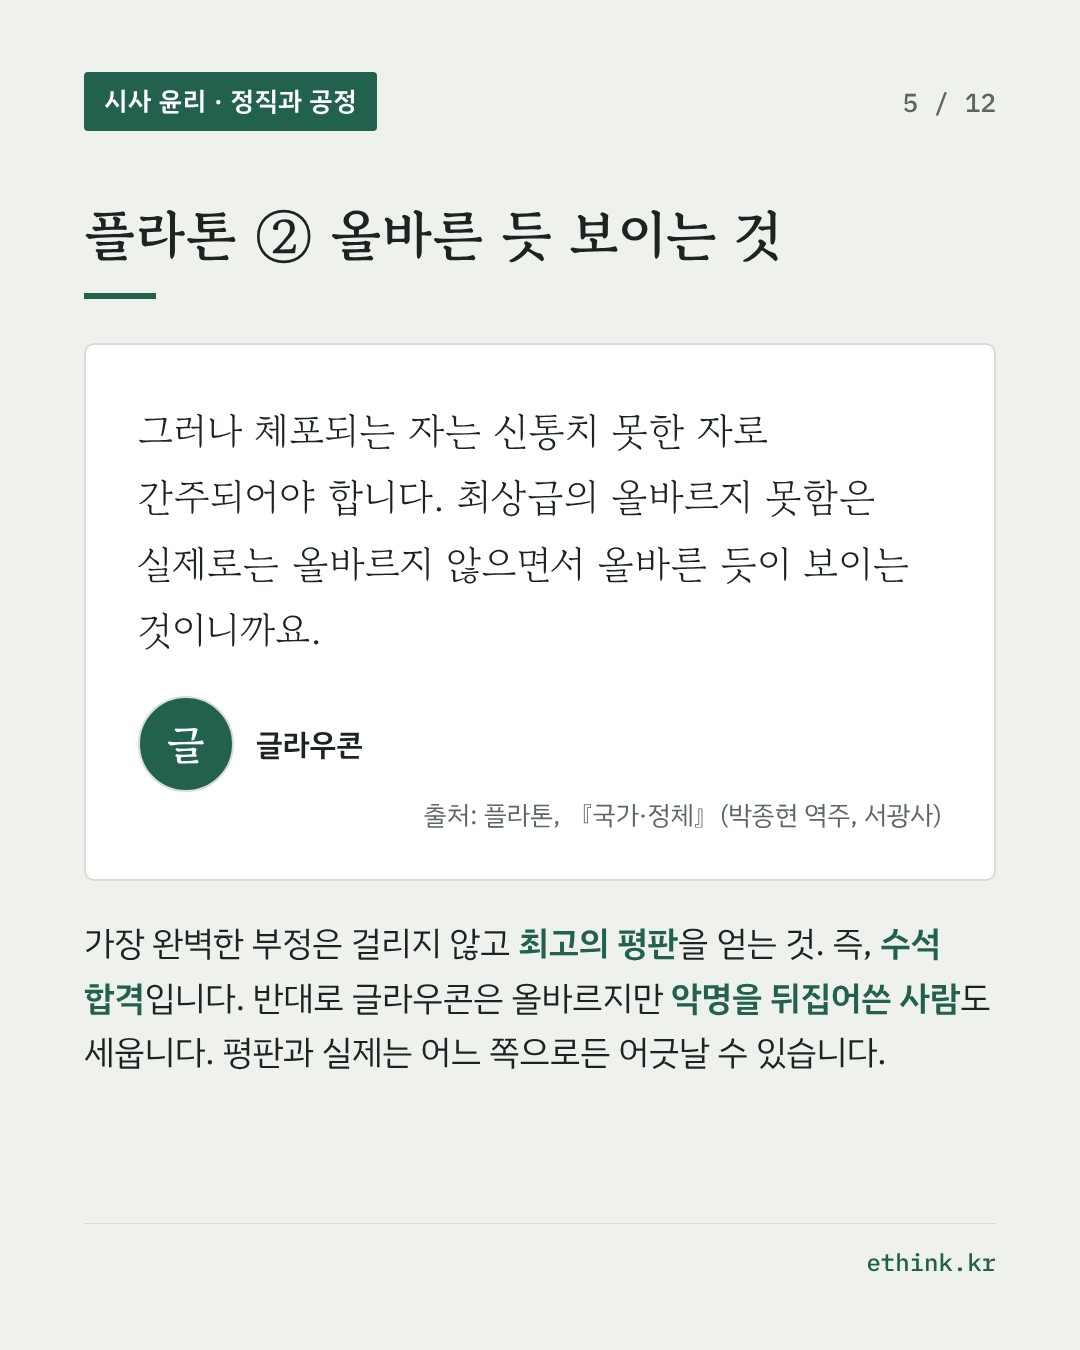
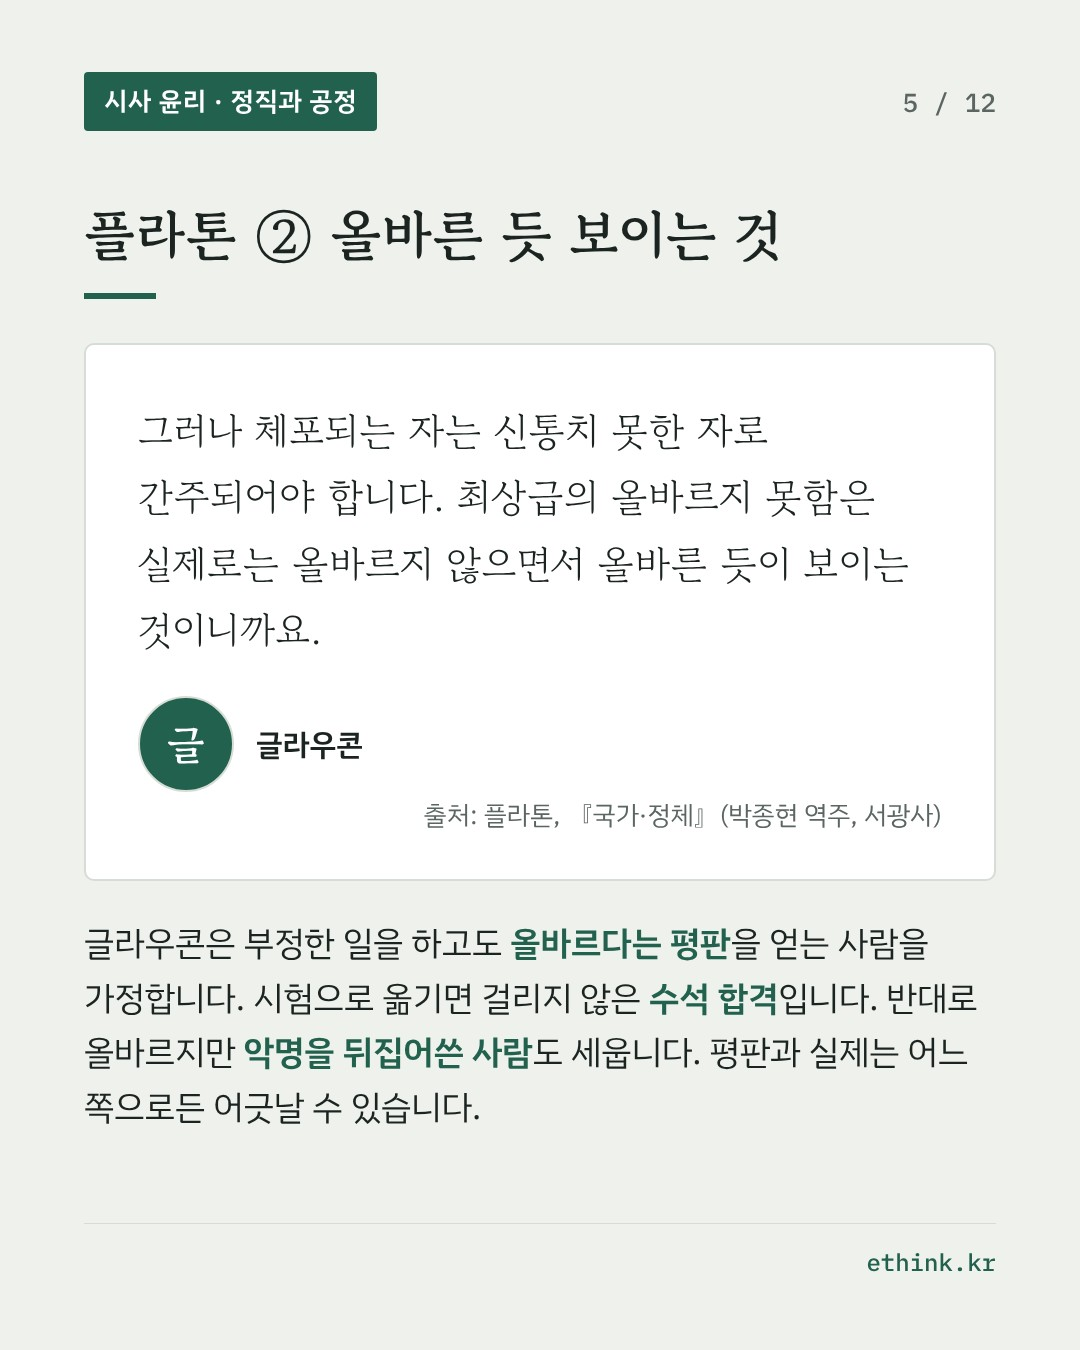
draft 11.21: GPT 검토 반영(98명 집계 기준, 세무사 영상일·검토 표현, 리트 사례 본문에서 제외, 목자 표기, 위기지학 풀이, 수업 표·가상 사례)
Claude-Session: https://claude.ai/code/session_01KzEbiP1novw54Lmu5VVEdP

Changed region(s): [[0.0611, 0.6844, 0.9167, 0.84]]

diff --git a/_items/2026-11-21/1.md b/_items/2026-11-21/1.md
@@ -2,13 +2,17 @@
 date: 2026-11-21 09:00:00 +0900
 num: 1
 section: 정직과 공정
-kicker: 국내 · 11월 19일 수능 부정행위 98명, 세무사 수석 합격자 자백, 리트 만점자 의혹
+kicker: 국내 · 11월 19일 수능 전자기기 부정행위 98명, 세무사 시험 수석 합격자의 자백
 title: 투명 인간이 되어 시험을 친다면, 기게스의 반지로 읽는 시험 부정행위
 question: 아무에게도 들키지 않을 수 있다면, 그래도 시험에서 부정행위를 하지 말아야 할 이유는 무엇인가?
-caution: 세 사례는 확인된 정도가 다릅니다. 수능 부정행위자 98명은 교육부가 발표한 수치이고, 최종 징계는 심의위원회를 거쳐 정해집니다. 세무사 수석 합격자는 본인이 부정행위를 밝혔고 경찰 수사 중이며, 기소나 판결은 나오지 않았습니다. 리트 만점자 사건은 의혹이 제기된 단계에서 당사자가 숨졌고, 부정행위 여부는 확인되지 않았습니다. 이 글은 그를 부정행위자로 다루지 않습니다. 수업에서 실명을 쓰거나 의혹을 추측하지 않고, 죽음의 경위도 다루지 않습니다. 수능을 막 치른 학생도 있으니, 부정행위를 보거나 하고 싶었던 경험을 말하게 하지 않습니다. 플라톤과 공자의 생각을 이번 사례에 대어 보는 것은 글쓴이의 해석입니다.
+caution: 수능 98명은 교육부가 4교시 종료 기준으로 집계한 스마트기기 등 전자기기 관련 부정행위자이고, 시간 위반 같은 일반 유형은 빠져 있습니다. 최종 통계와 징계는 심의를 거쳐 나옵니다. 세무사 수석 합격자는 본인이 부정행위를 밝혔고 경찰 수사 중이며, 기소나 판결은 나오지 않았습니다. 같은 주에 제기된 리트 만점자 의혹은 확인되지 않은 채 당사자가 숨지는 일로 이어졌습니다. 이 글은 그 사건을 사례로 다루지 않으며, 수업에서도 다루지 않기를 권합니다. 수능을 막 치른 학생도 있으니, 부정행위를 보거나 하고 싶었던 경험을 말하게 하지 않습니다. 플라톤과 공자의 생각을 이번 사례에 대어 보는 것은 글쓴이의 해석입니다.
 subjects: [『인문학과 윤리』 · 의미 있는 타자로서의 친구, 『윤리와 사상』 · 서양 윤리 사상, 『윤리와 사상』 · 동양 윤리 사상]
 lenses: [플라톤 · 기게스의 반지와 '보이는 것'과 '실제', 공자 · 자기를 위한 공부(위기지학)]
 sources:
+  - name: 대한민국 정책브리핑, 교육부 수능 2차 브리핑 (11.19)
+    url: https://www.korea.kr/briefing/policyBriefingView.do?newsId=156790001
+  - name: 뉴시스 (11.16)
+    url: https://mobile.newsis.com/view/NISX20261116_0003868832
   - name: 경향신문 (11.19)
     url: https://www.khan.co.kr/article/202611191915001
   - name: 주간경향 (11.19)
@@ -19,27 +23,23 @@ sources:
     url: https://www.hankookilbo.com/news/article/A2026111809410005039
   - name: 경향신문 (11.18)
     url: https://www.khan.co.kr/article/202611180600061
-  - name: 서울경제 (11.20)
-    url: https://www.sedaily.com/article/20116703
 og_image: /assets/og/2026-11-21-1.jpg
 ---
 ##### 무슨 일이 있었나
 
-11월 19일 치른 2027학년도 수능에서 부정행위자 98명이 나왔습니다(교육부, 4교시 종료 기준). 49명은 위급재난문자가 울리면서 걸렸습니다. 몸이나 복도에 둔 가방 속 전자기기에서 알람이 울린 것입니다. 시험 도중 스마트기기를 쓴 부정행위도 5건 있었습니다. 스마트안경 1건, 소형 카메라와 무선 이어폰 1건, 스마트폰으로 문제지를 찍은 1건, 화장실에서 스마트폰을 쓴 2건입니다. 교육부는 98명을 모두 부정행위자로 처리했고, 스마트기기를 쓴 수험생에게는 "보다 엄중한 책임을 묻겠다"고 밝혔습니다. 징계 수위는 심의위원회를 거쳐 성적 발표일(12월 11일) 전에 정합니다.
+교육부는 11월 19일 치른 2027학년도 수능에서 4교시 종료 기준으로 스마트기기 등 전자기기 관련 부정행위자 98명을 집계했습니다(시간 위반 같은 일반 유형은 빠진 수치이고, 최종 통계는 추후 발표합니다). 49명은 위급재난문자 알림을 계기로 적발됐습니다. 몸이나 복도에 둔 가방 속 전자기기에서 알람이 울린 것입니다. 와이파이 신호 탐지 등으로 전자기기가 적발된 사람은 44명입니다. 시험 도중 스마트기기를 활용한 부정행위도 5건 확인됐습니다. 스마트안경을 쓴 1건, 소형 카메라와 무선 이어폰을 소지한 1건, 스마트폰으로 문제지를 찍은 1건, 화장실에서 스마트폰을 쓴 2건입니다. 교육부는 98명을 모두 부정행위자로 처리했고, 스마트기기를 쓴 수험생에게는 "보다 엄중한 책임을 묻겠다"고 밝혔습니다. 징계 수위는 심의위원회를 거쳐 성적 발표일(12월 11일) 전에 정합니다.
 
-시험장 밖에서도 일이 이어졌습니다. 올해 세무사 시험 수석 합격자는 11월 14일 공개된 영상에서 초소형 카메라로 시험지를 찍어 AI에 보내고, 스마트폰으로 답을 확인했다고 털어놓았습니다. 공인회계사 1차 시험에서도 같은 방식을 썼다고 했습니다. 그는 17일 경찰 조사를 받았습니다. 한국산업인력공단은 자백 전에 전문가를 위촉해 답안을 검토했지만 "AI 부정행위를 의심할 만한 구체적인 특이사항"을 찾지 못했습니다. 정부는 올해 치른 국가자격시험 528개를 사후 검증하겠다고 했습니다(이 사건은 [지난 글](/weekly/2026-11-16/1/)에서 '자격'의 문제로 다루었습니다).
-
-같은 주, 올해 7월 법학적성시험(리트)의 만점자로 알려진 응시자에게 부정행위 의혹이 제기되었습니다. 18일 고발이 있었고, 다음 날 그는 숨진 채 발견되었습니다. 보도된 메모에 부정행위를 인정하는 내용은 없었고, 의혹은 확인되지 않았습니다. 경찰은 사실 확인을 위해 수사를 이어 가겠다고 밝혔습니다.
+시험장 밖에서도 일이 이어졌습니다. 올해 세무사 시험 수석 합격자는 11월 15일 공개된 영상에서 "세무사 1·2차 시험에서 전자기기와 생성형 AI를 이용해 부정행위를 했다"고 밝혔습니다. 초소형 카메라로 시험지를 찍어 AI에 보내고, 스마트폰으로 답을 확인하는 방식이었습니다. 그는 "제가 수석으로 합격한 것은 정당한 노력으로 얻은 결과가 아니다"라고 했습니다. 공인회계사 1차 시험에서도 같은 방식을 썼다고 했습니다. 그는 17일 경찰 조사를 받았습니다. 자수 전 한국산업인력공단이 전문가를 위촉해 2차 시험 답안을 검토했지만, "AI 부정행위를 의심할 만한 구체적인 특이사항"을 찾지 못했습니다. 정부는 국가자격시험 전체를 대상으로 AI 부정행위 의심 사례를 조사하기로 했습니다(이 사건은 [지난 글](/weekly/2026-11-16/1/)에서 '자격'의 문제로 다루었습니다).
 
 ##### 왜 윤리 문제인가
 
-세 사례는 같지 않습니다. 수능에서는 규칙을 어긴 사람이 그 자리에서 걸렸습니다. 세무사 시험에서는 걸리지 않았고, 수석이라는 평판까지 얻었다가 본인이 밝혔습니다. 리트 사례는 확인되지 않은 의혹입니다.
+두 사례는 같지 않습니다. 수능에서는 규칙을 어긴 사람이 그 자리에서 걸렸습니다. 세무사 시험에서는 걸리지 않았고, 수석이라는 평판까지 얻었다가 본인이 밝혔습니다.
 
-그런데 셋은 한 가지를 똑같이 묻습니다. 감독이 다 보지 못한다면? 스마트안경, 초소형 카메라, AI가 나오면서 감독관의 눈은 점점 더 많은 것을 놓칩니다. 전문가가 답안을 다시 읽어도 찾지 못했습니다. 그렇다면 질문은 이렇게 됩니다. 들키지 않는다면, 부정행위를 하지 않을 이유가 있는가? 2,400년 전 플라톤이 『국가』에서 던진 질문입니다. 감독 없이도 지킬 규칙은 [칸트와 신독으로](/weekly/2026-10-27/1/), 아무도 모르게 볼 수 있는 정보는 [기게스의 반지로](/weekly/2026-10-24/1/) 읽은 적이 있습니다. 이번에는 시험이 남기는 '평판'과 '실력' 사이를 플라톤과 공자로 읽어 봅니다.
+그런데 둘은 한 가지를 똑같이 묻습니다. 감독이 다 보지 못한다면? 스마트안경, 초소형 카메라, AI가 나오면서 감독관의 눈은 점점 더 많은 것을 놓칩니다. 전문가가 답안을 다시 읽어도 특이사항을 찾지 못했습니다. 그렇다면 질문은 이렇게 됩니다. 들키지 않는다면, 부정행위를 하지 않을 이유가 있는가? 2,400년 전 플라톤이 『국가』에서 던진 질문입니다. 감독 없이도 지킬 규칙은 [칸트와 신독으로](/weekly/2026-10-27/1/), 아무도 모르게 볼 수 있는 정보는 [기게스의 반지로](/weekly/2026-10-24/1/) 읽은 적이 있습니다. 이번에는 시험이 남기는 '평판'과 '실력' 사이를 플라톤과 공자로 읽어 봅니다.
 
 ##### 플라톤으로 읽기: 올바른 듯 보이는 것과 올바른 것
 
-플라톤(기원전 427~347)은 고대 그리스의 철학자입니다. 『국가』에서 글라우콘은 소크라테스에게 도전합니다. 사람들이 올바르게 사는 것은 처벌이 두렵고 평판이 필요해서일 뿐이라는 것입니다. 그 증거로 리디아의 목자 기게스 이야기를 꺼냅니다. 땅이 갈라진 틈에서 금반지를 주운 목자가, 목자들의 모임에 그 반지를 끼고 나갔습니다.
+플라톤(기원전 427~347)은 고대 그리스의 철학자입니다. 『국가』에서 글라우콘은 소크라테스에게 도전합니다. 사람들이 올바르게 사는 것은 처벌이 두렵고 평판이 필요해서일 뿐이라는 것입니다. 그 증거로 리디아의 한 목자 이야기를 꺼냅니다(흔히 '기게스의 반지'로 부르는데, 박종현 역주본은 그를 기게스의 조상으로 옮깁니다). 땅이 갈라진 틈에서 금반지를 주운 목자가, 목자들의 모임에 그 반지를 끼고 나갔습니다.
 
 <figure class="src">
 <blockquote>
@@ -59,9 +59,9 @@ og_image: /assets/og/2026-11-21-1.jpg
 <figcaption><span class="who">글라우콘</span><span class="from">출처: 플라톤, 『국가·정체』(박종현 역주, 서광사)</span></figcaption>
 </figure>
 
-이 반론을 시험에 대어 봅니다. 재난문자에 걸린 수험생은 글라우콘의 말로 '신통치 못한 자'입니다. 가장 완벽한 부정은 걸리지 않고 최고의 평판을 얻는 것입니다. 즉, 수석 합격입니다. 세무사 시험 사례는 글라우콘이 그린 그림에 거의 닿았습니다. 전문가 검토도 통과했으니까요.
+글라우콘은 부정한 일을 하고도 올바르다는 평판을 얻는 사람을 가정합니다. 이 사고 실험을 시험에 옮기면, 가장 완벽한 부정은 걸리지 않고 최고의 평판을 얻는 것입니다. 즉, 수석 합격입니다. 세무사 시험 사례에서는 자수 전 공단의 답안 검토에서도 특이사항이 나오지 않았습니다.
 
-그런데 글라우콘은 반대편 사람도 세웁니다. 실제로는 올바르지만 평판을 모두 빼앗긴 사람입니다. 그는 "올바르지 못한 짓이라곤 전혀 저지르지 않았지만, 올바르지 못함의 최대 악명"을 얻습니다. 플라톤은 이 사고 실험으로 보이는 것(평판)과 실제를 떼어 놓고 묻습니다. 평판을 다 빼고도 올바름은 그 자체로 좋은가? 이 대목은 리트 사례를 다룰 때도 기억해 둘 만합니다. 평판과 실제는 어느 쪽으로든 어긋날 수 있습니다. 확인되지 않은 의혹만으로 누군가를 판정하지 않는 것도 올바름입니다.
+그런데 글라우콘은 반대편 사람도 세웁니다. 실제로는 올바르지만 평판을 모두 빼앗긴 사람입니다. 그는 "올바르지 못한 짓이라곤 전혀 저지르지 않았지만, 올바르지 못함의 최대 악명"을 얻습니다. 플라톤은 이 사고 실험으로 보이는 것(평판)과 실제를 떼어 놓고 묻습니다. 평판을 다 빼고도 올바름은 그 자체로 좋은가? 이 사고 실험은 반대 방향도 보여 줍니다. 평판과 실제는 어느 쪽으로든 어긋날 수 있습니다. 그렇다면 의혹이 제기됐다는 사실만으로 그 사람의 정직함이나 실력을 판단할 수 있을까? 확인되지 않은 의혹으로 누군가를 판정하지 않는 것도 올바름입니다.
 
 소크라테스의 대답은 『국가』 끝까지 이어집니다. 9권에서 그는 들키지 않는 것이 정말 이득인지 되묻습니다.
 
@@ -72,7 +72,7 @@ og_image: /assets/og/2026-11-21-1.jpg
 <figcaption><span class="who">소크라테스</span><span class="from">출처: 플라톤, 『국가·정체』(박종현 역주, 서광사)</span></figcaption>
 </figure>
 
-소크라테스에게 부정의 대가는 처벌이 아닙니다. 혼이 망가지는 것입니다. 들키지 않으면 그 망가짐이 계속됩니다. 반대로 걸려서 벌을 받는 것은 혼을 바로잡을 기회가 됩니다. 이 생각을 이번 사례에 대어 보면, 시험장에서 걸린 98명에게 적발은 손해이기만 한 것이 아닙니다. 수석 합격자가 스스로 털어놓은 일도 같은 눈으로 볼 수 있습니다(자백의 동기는 확인되지 않았습니다).
+소크라테스에게 부정의 대가는 처벌이 아닙니다. 혼이 망가지는 것입니다. 들키지 않으면 그 망가짐이 계속되고, 벌을 받는 것은 혼을 바로잡을 기회가 됩니다. 즉, 글라우콘이 부정한 일을 하고도 올바르다는 평판을 얻는 사람을 가정한다면, 소크라테스는 그렇게 얻은 이익이 그 사람을 어떤 사람으로 만드는지 되묻습니다.
 
 ##### 공자로 읽기: 남에게 보이기 위한 공부
 
@@ -85,9 +85,9 @@ og_image: /assets/og/2026-11-21-1.jpg
 <figcaption><span class="who">공자</span><span class="from">출처: 『논어』, 「헌문」 · 이기동, 『논어강설』(성균관대학교출판부)</span></figcaption>
 </figure>
 
-자기를 위한 공부(위기지학)와 남을 위한 공부(위인지학)입니다. 여기서 '남을 위한'은 남을 돕는다는 뜻이 아닙니다. 남에게 보이기 위해서, 남을 이기기 위해서입니다. 이기동은 이 구절을 풀며 벼슬을 하거나 돈을 벌기 위한 학문은 남을 이기기 위한 것이니 "남 때문에 하는 것"이라고 적습니다.
+자기를 위한 공부(위기지학)와 남을 위한 공부(위인지학)입니다. 자기를 위한 공부는 배운 것을 자기 것으로 만들어 삶에서 실천하는 공부입니다. 남을 위한 공부는 남을 돕는 공부가 아닙니다. 남에게 인정받는 데 마음이 쏠린 공부입니다. 이기동은 이 구절을 풀며, 벼슬을 하거나 돈을 벌기 위한 학문은 남을 이기기 위한 것이니 "남 때문에 하는 것"이라고 적습니다.
 
-시험 부정행위는 공부를 끝까지 '남을 위한 것'으로 만듭니다. 점수와 합격증은 남이 보는 것입니다. 실력은 자기에게 남는 것입니다. AI가 쓴 답으로 세무사 자격을 얻으면, 합격증은 생기지만 세무를 할 줄 아는 사람은 생기지 않습니다. 그 사이의 빈자리는 그에게 일을 맡길 사람들이 떠안습니다.
+시험 부정행위는 공부를 끝까지 '남을 위한 것'으로 만듭니다. 점수와 합격증은 남이 보는 것입니다. 배운 것은 자기에게 남는 것입니다. 그런데 다른 도움으로 얻은 점수라면, 그 점수만으로는 본인의 실력을 알 수 없습니다. 피해는 자기에게서 끝나지 않습니다. 같은 규칙을 지킨 응시자들은 공정하게 평가받을 기회를 잃고, 자격을 믿고 일을 맡기는 사람도 판단 근거를 잃습니다.
 
 공자는 『논어』를 이렇게 엽니다. 길벗 『인문학과 윤리』도 이 대목을 싣고 있습니다.
 
@@ -100,19 +100,19 @@ og_image: /assets/og/2026-11-21-1.jpg
 
 첫 번째 기쁨은 배우고 익히는 데서 옵니다. 남의 눈과 상관없는 기쁨입니다. 그리고 마지막 문장. 남이 알아주지 않아도 서운해하지 않는 사람이 군자입니다. 부정행위는 정확히 그 반대 자리에 있습니다. 배움의 기쁨은 건너뛰고, 남이 알아주는 것만 가져갑니다. 플라톤의 말로 하면 '올바른 듯 보이는 것'만 가져가는 셈입니다.
 
-두 사람은 다른 길로 같은 곳에 닿습니다. 플라톤은 들키지 않는 부정이 혼을 망친다고 보았고, 공자는 남에게 보이려는 공부가 자기를 잃게 한다고 보았습니다. 둘 다 기게스의 반지가 숨겨 주지 못하는 사람이 있다고 말합니다. 바로 자기 자신입니다.
+플라톤은 들키지 않는 부정이 혼을 망친다고 보았고, 공자는 남에게 보이려는 공부가 자기를 잃게 한다고 보았습니다. 두 사람의 생각을 시험에 비추어 보면, 기게스의 반지가 숨겨 주지 못하는 사람이 있습니다. 바로 자기 자신입니다.
 
 ##### 수업에서 쓰는 법
 
-이 사례에서는 "들키지 않는다면, 부정행위를 하지 않을 이유가 있는가"를 묻습니다. 먼저 세 사례가 확인된 정도가 다르다는 것을 짚습니다. 리트 사례는 의혹이고, 당사자는 세상을 떠났습니다. 수업에서는 실명을 쓰지 않고, 그가 부정행위를 했는지 추측하지 않으며, 죽음의 경위도 다루지 않습니다.
+이 사례에서는 "들키지 않는다면, 부정행위를 하지 않을 이유가 있는가"를 묻습니다. 먼저 두 사례에서 확인된 것과 아직 확인되지 않은 것을 나눕니다. 그리고 한 번의 사건으로 한 사람의 실력이나 인격 전체를 판정하지 않는다는 것도 짚어 둡니다.
 
 <table class="tbl tbl-cols">
 <colgroup><col style="width:22%"><col style="width:26%"><col style="width:26%"><col style="width:26%"></colgroup>
-<thead><tr><th>사례</th><th>확인된 것</th><th>보이는 것(평판·점수)</th><th>실제(실력·정직)</th></tr></thead>
+<thead><tr><th>사례</th><th>확인된 것</th><th>보이는 것(평판·점수)</th><th>점수로 알 수 있는 것과 알 수 없는 것</th></tr></thead>
 <tbody>
-<tr class="tbl-ex"><td>세무사 시험 수석 합격</td><td>예: 본인이 부정행위를 밝힘, 경찰 수사 중</td><td>예: 수석이라는 최고의 평판</td><td>예: 답을 쓴 것은 AI, 세무 실력은 확인되지 않음</td></tr>
+<tr class="tbl-ex"><td>세무사 시험 수석 합격</td><td>예: 본인이 부정행위를 밝힘, 경찰 수사 중</td><td>예: 수석이라는 최고의 평판</td><td>예: 다른 도움으로 얻은 점수라 본인의 실력은 알 수 없음</td></tr>
 <tr><td>수능 부정행위 98명</td><td></td><td></td><td></td></tr>
-<tr><td>(가상) 아무도 모르게 AI의 도움을 받은 수행평가</td><td></td><td></td><td></td></tr>
+<tr><td>(가상) AI로 답안을 쓰는 것이 금지된 수행평가에서, AI가 쓴 답안을 자기 글로 제출함</td><td></td><td></td><td></td></tr>
 </tbody>
 </table>
 
@@ -120,7 +120,7 @@ og_image: /assets/og/2026-11-21-1.jpg
 <p class="fig-title">수업 흐름</p>
 <ol class="flow">
 <li><span class="flow-step">사실 나누기</span><br>
-<span class="flow-desc">세 사례에서 확인된 사실, 수사·심의 중인 것, 확인되지 않은 의혹을 나누어 적는다. 리트 사례는 '의혹'으로만 다루고 실명과 추측을 쓰지 않는다</span></li>
+<span class="flow-desc">두 사례에서 확인된 사실과 수사·심의 중인 것을 나누어 적는다. 수능 98명이 어떤 기준의 집계인지(4교시 종료 기준, 전자기기 관련)도 확인한다</span></li>
 <li><span class="flow-step">기게스의 반지 읽기</span><br>
 <span class="flow-desc">반지 이야기와 "최상급의 올바르지 못함은 올바르지 않으면서 올바른 듯이 보이는 것"을 읽고, 글라우콘의 주장을 한 문장으로 정리한다. 오늘의 '반지'는 무엇인지 찾는다</span></li>
 <li><span class="flow-step">두 가지 대답</span><br>
